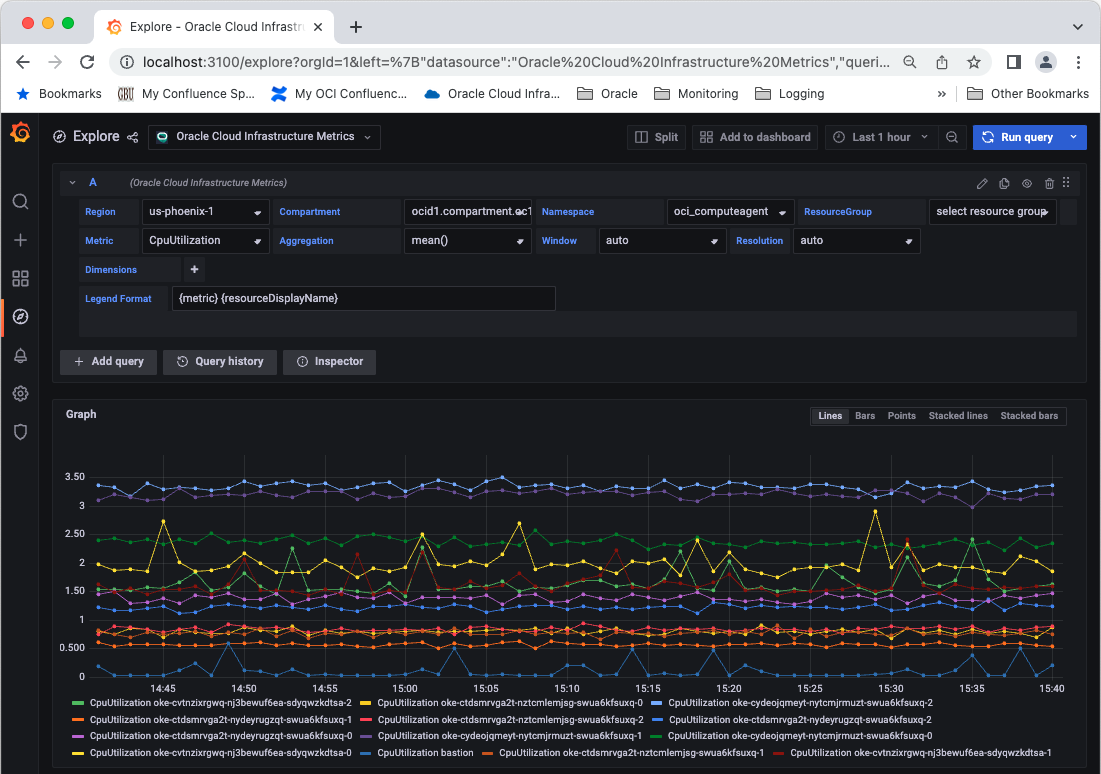
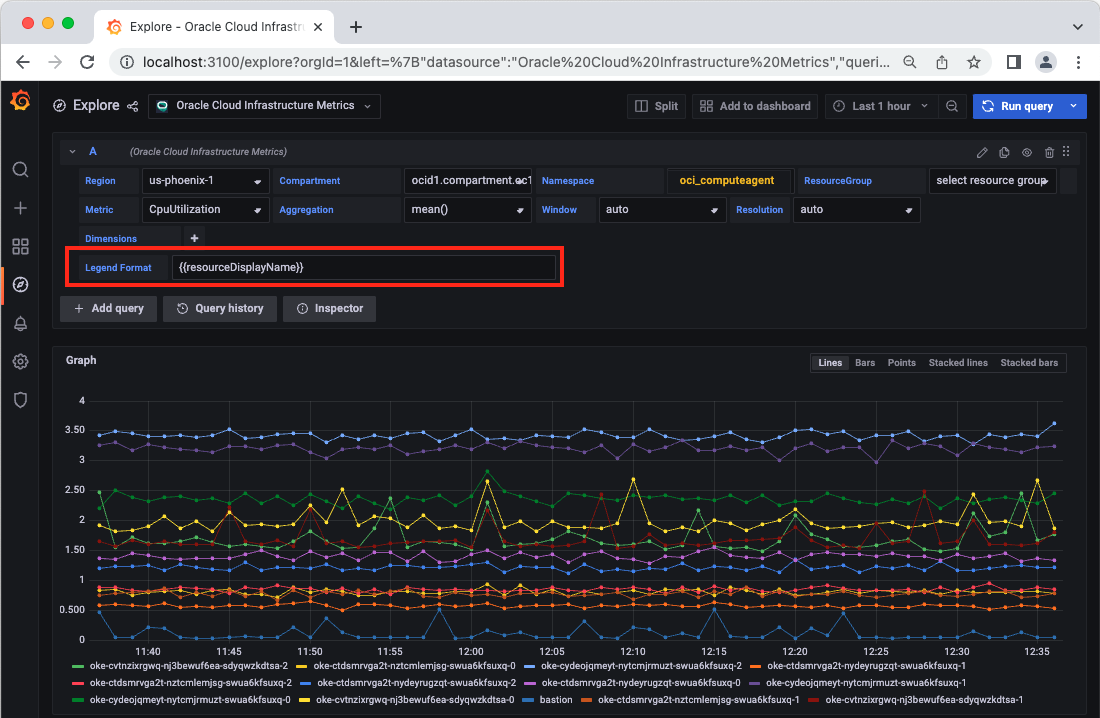
Updated changes for metric label customization

diff --git a/src/partials/query.editor.html b/src/partials/query.editor.html
@@ -99,16 +99,18 @@
       </div>
     </div>
     <div class="gf-form-inline">
-      <label class="gf-form-label query-keyword width-7">Legend Format</label>
-      <input class="gf-form-input width-30" 
-        type="text" 
-        ng-required="false"
-        ng-model="ctrl.target.legendFormat"
-        ng-blur="ctrl.onChangeInternal()">
-      </input>
+      <div class="gf-form">
+        <label class="gf-form-label query-keyword width-7">Legend Format</label>
+      </div>
+        <div class="gf-form">
+          <input class="gf-form-input width-30" 
+          type="text" 
+          ng-required="false"
+          ng-model="ctrl.target.legendFormat"
+          ng-blur="ctrl.onChangeInternal()">
+        </input>
+      </div>
     </div>
-    <div class="gf-form gf-form--grow">
-		<div class="gf-form-label gf-form-label--grow"></div>
 	</div>
 </div>
 

diff --git a/pkg/datasource.go b/pkg/datasource.go
@@ -622,7 +622,7 @@ func (o *OCIDatasource) generateCustomMetricLabel(legendFormat string, metricNam
 	// more characters that are not the right curly brace (or whitespace) followed
 	// finally by a right curly brace. The inclusion of the <label> portion of the
 	// pattern is to allow the logic to extract the label text from the placeholder.
-	rePlaceholderLabel, err := regexp.Compile(`\{\s*(?P<label>[^} ]+)\s*\}`)
+	rePlaceholderLabel, err := regexp.Compile(`\{\{\s*(?P<label>[^} ]+)\s*\}\}`)
 
 	if err != nil {
 		o.logger.Error("Compilation of legend format placeholders regex failed")

diff --git a/docs/using.md b/docs/using.md
@@ -119,20 +119,20 @@ The Legend Format field for a metrics query can contain any literal text sequenc
 
 | Placeholder     | Value that will replace the placeholder       |
 | --------------- | --------------------------------------------- |
-| {metric}        | The name of metric	                          |
-| {dimension}     | The value of the specified metric dimension   |
+| {{metric}}      | The name of metric	                          |
+| {{dimension}}   | The value of the specified metric dimension   |
 
 When the Legend Format field contains a defined format, the metrics plugin will generate a label for each metric that follows the defind format where each of the referenced placeholders is replaced by the relevant value for the metric. Any placeholders (or other text) in the legend format that do not line up with one of these placeholders will be unchanged. Note that placeholder labels are treated as case sensitive.
 
 Examples of custom legend formats that could be defined for metrics associated with OCI resources include:
 
-| Metric Namespace  | Example Metric   | Example Legend/Label Format                  | Example Resulting Metric Label    |
-| ----------------- | ---------------- | -------------------------------------------- | --------------------------------- |
-| oci_computeagent  | CpuUtilization   | {metric} - {resourceDisplayName}             | CpuUtilization - InstanceName-123 |
-| oci_computeagent  | DiskBytesWritten | {availabilityDomain} - {resourceDisplayName} |	bwAI:PHX-AD-2 - InstanceName-456  |
-| oci_lbaas	        | BytesReceived    | {lbName} / {backendSetName}                  | myLB / backendset1                |
-| oci_objectstorage	| ObjectCount      | {tier} ^ {resourceDisplayName}               | NORMAL ^ myBucketName             |
-| oci_filestorage   | FileSystemUsage  | resourceId={resourceId}                      | resourceId=ocid1.filesystem....   |
+| Metric Namespace  | Example Metric   | Example Legend/Label Format                     | Example Resulting Metric Label    |
+| ----------------- | ---------------- | ----------------------------------------------- | --------------------------------- |
+| oci_computeagent  | CpuUtilization   | {{metric}} - {{resourceDisplayName}}            | CpuUtilization - InstanceName-123 |
+| oci_computeagent  | DiskBytesWritten | {{availabilityDomain} - {{resourceDisplayName}} | bwAI:PHX-AD-2 - InstanceName-456  |
+| oci_lbaas	        | BytesReceived    | {{lbName}} / {{backendSetName}}                 | myLB / backendset1                |
+| oci_objectstorage	| ObjectCount      | {{tier}} ^ {{resourceDisplayName}}              | NORMAL ^ myBucketName             |
+| oci_filestorage   | FileSystemUsage  | resourceId={{resourceId}}                       | resourceId=ocid1.filesystem....   |
 
 ## Custom Metrics and Namespaces
 
